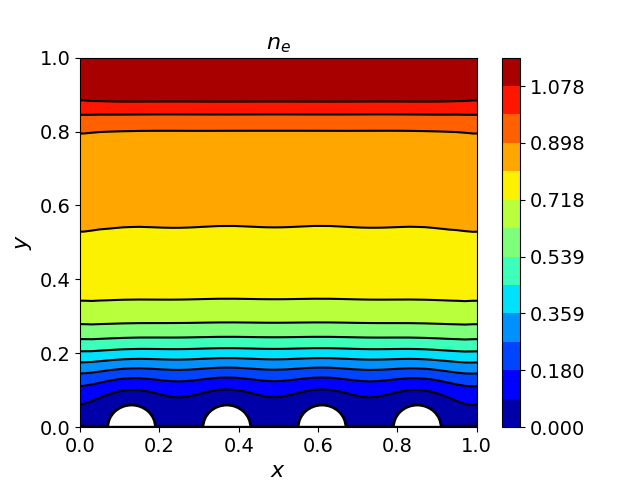
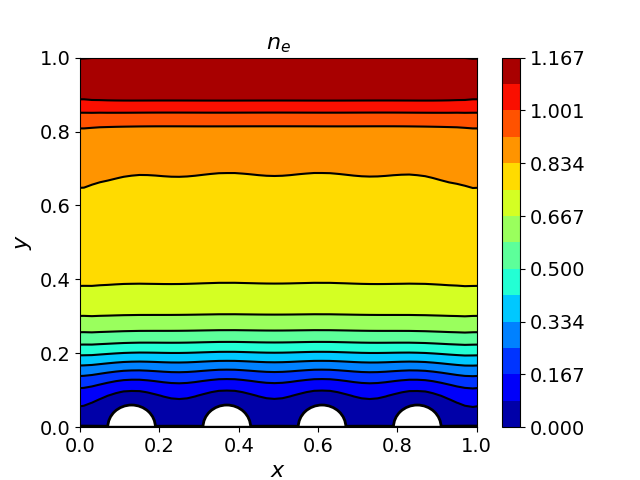
updated sheath_rough_wall figures

diff --git a/examples/sheath_rough_wall/plottings.py b/examples/sheath_rough_wall/plottings.py
@@ -41,7 +41,7 @@ x = np.arange(x_min - G * dx + dx / 2, x_min + Lx + G * dx, dx)
 y = np.arange(y_min - G * dy + dy / 2, y_min + Ly + G * dy, dy)
 X, Y = np.meshgrid(x, y, indexing="ij")
 plt.figure()
-levels = np.linspace(0, ne.max(), 14)
+levels = np.linspace(0, ne.max(), 15)
 plt.contourf(
     X,
     Y,
@@ -104,7 +104,7 @@ plt.ylim(0, Ly)
 plt.savefig(f"{file_path}/charge_density.png")
 
 plt.figure()
-levels = np.linspace(np.min(phi), np.max(phi), 19)
+levels = np.linspace(np.min(phi), np.max(phi), 15)
 plt.contourf(X, Y, phi, levels=levels, cmap="jet")
 plt.colorbar()
 plt.contour(X, Y, phi, levels=levels, colors="black", linestyles="solid")
